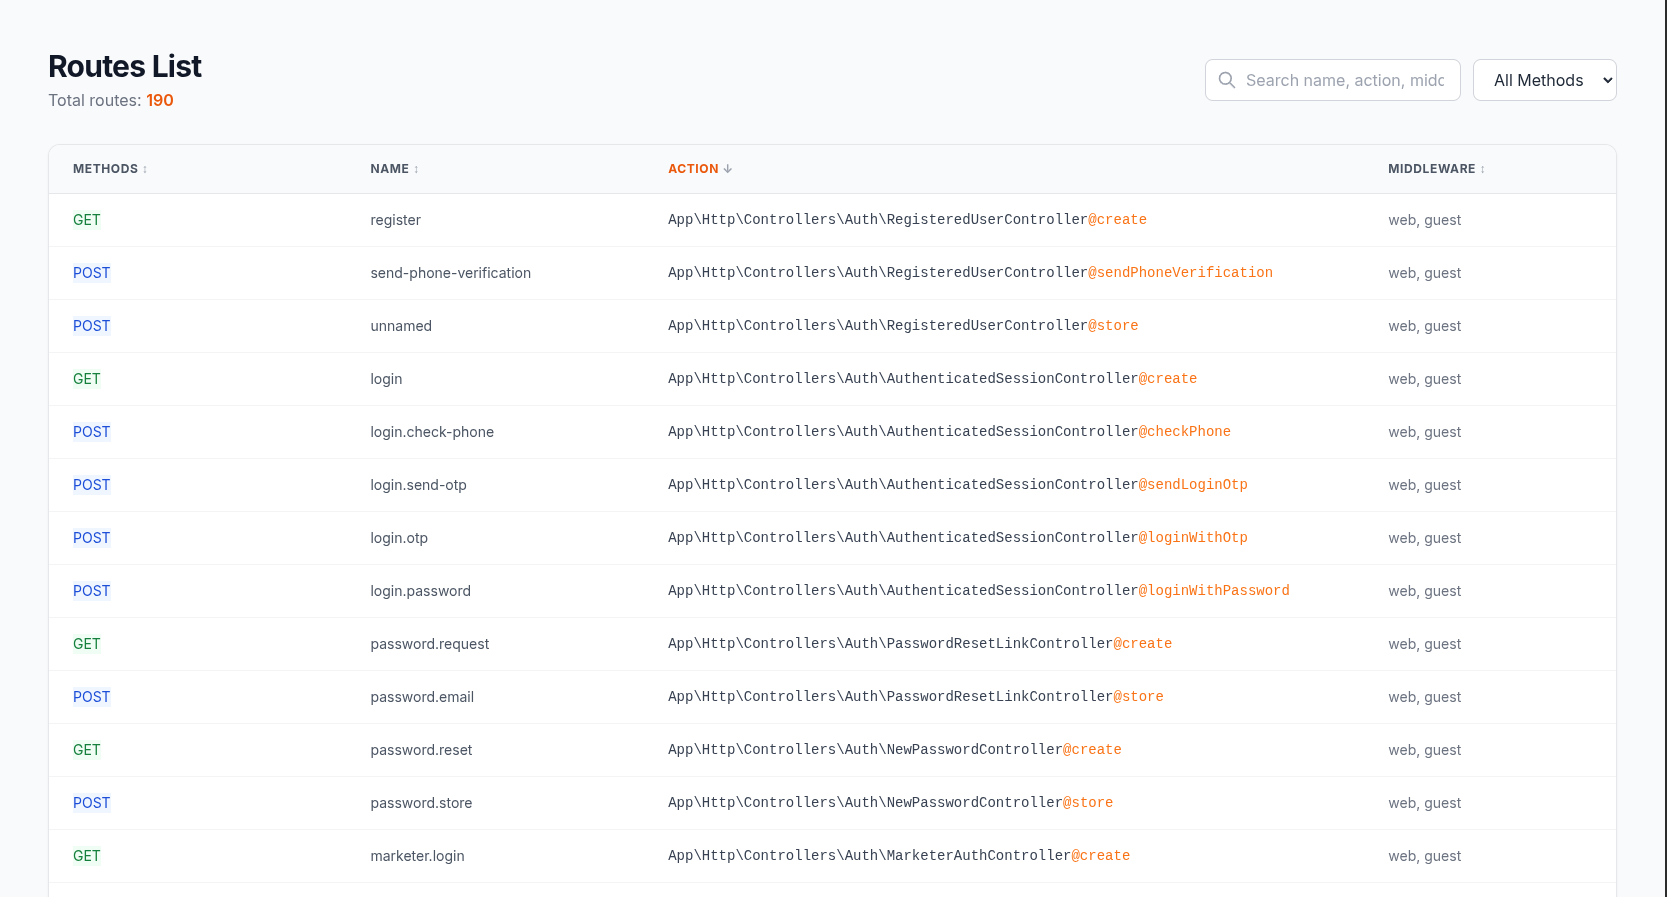
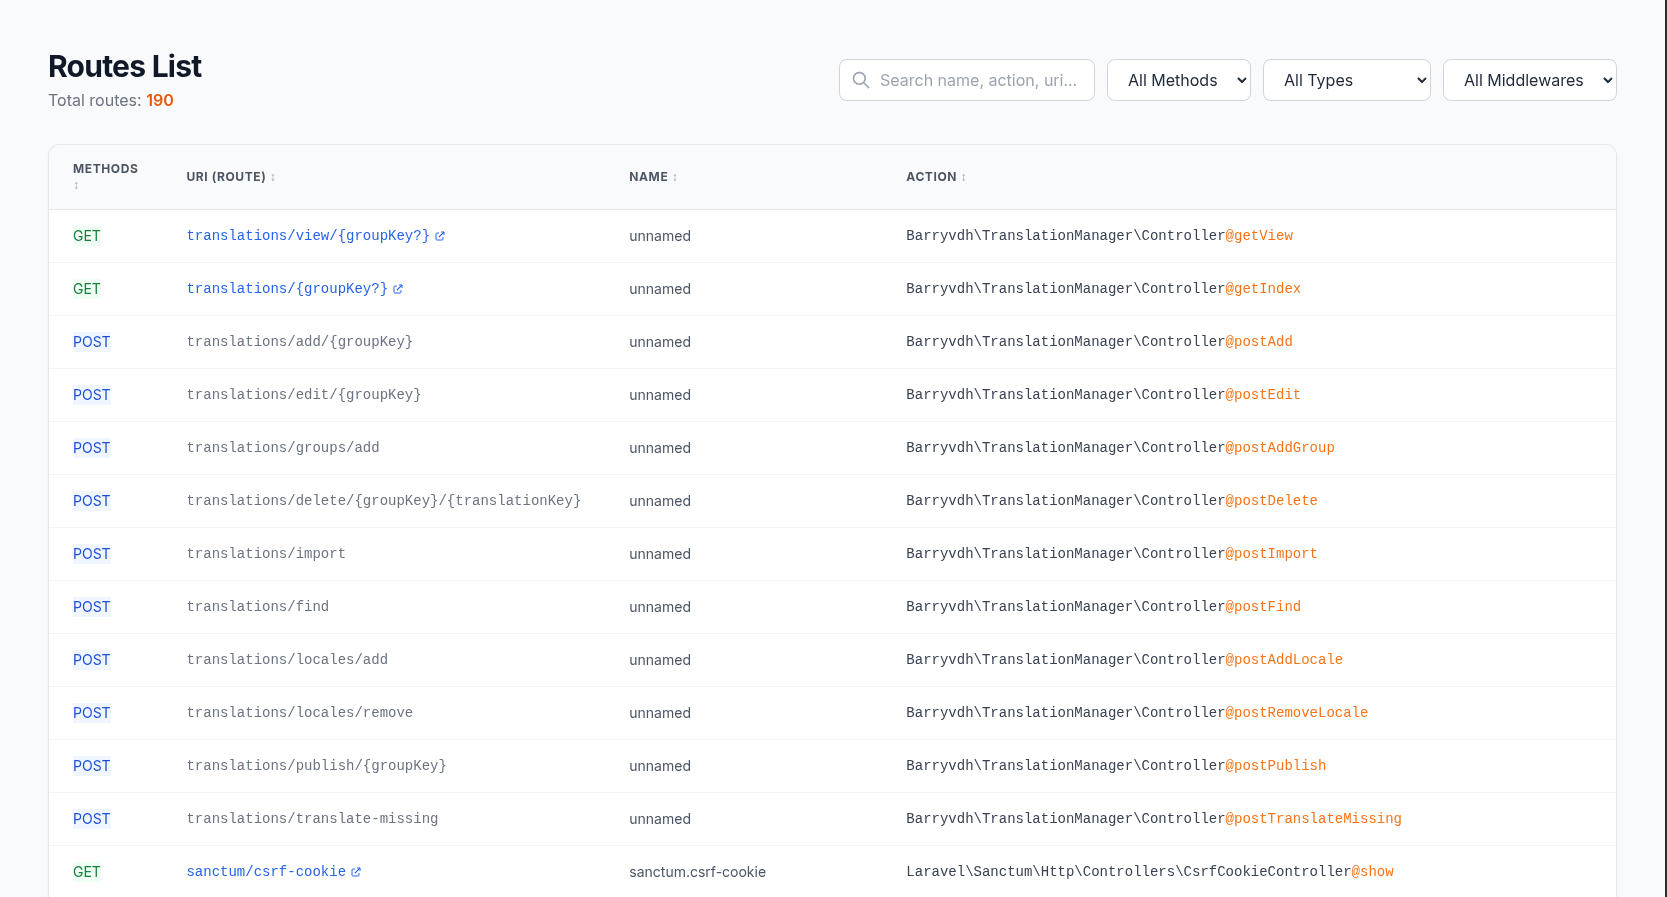
Add Closure Filter, Middleware Filter, URI Column, Optimize JS

diff --git a/views/routes.blade.php b/views/routes.blade.php
@@ -26,11 +26,14 @@
             
             <!-- Controls -->
             <div class="flex flex-col sm:flex-row gap-3">
+                <!-- Search -->
                 <div class="relative">
                     <svg class="absolute left-3 top-1/2 -translate-y-1/2 w-5 h-5 text-gray-400" fill="none" stroke="currentColor" viewBox="0 0 24 24"><path stroke-linecap="round" stroke-linejoin="round" stroke-width="2" d="M21 21l-6-6m2-5a7 7 0 11-14 0 7 7 0 0114 0z"></path></svg>
-                    <input type="text" id="searchInput" placeholder="Search name, action, middleware..." 
+                    <input type="text" id="searchInput" placeholder="Search name, action, uri..." 
                         class="pl-10 pr-4 py-2 border border-gray-300 rounded-lg focus:ring-2 focus:ring-orange-500 focus:border-orange-500 outline-none w-full sm:w-64 transition-shadow">
                 </div>
+
+                <!-- Method Filter -->
                 <select id="methodFilter" class="px-4 py-2 border border-gray-300 rounded-lg focus:ring-2 focus:ring-orange-500 focus:border-orange-500 outline-none bg-white cursor-pointer">
                     <option value="ALL">All Methods</option>
                     <option value="GET">GET</option>
@@ -38,8 +41,41 @@
                     <option value="PUT">PUT</option>
                     <option value="PATCH">PATCH</option>
                     <option value="DELETE">DELETE</option>
-                    <option value="HEAD">HEAD</option>
-                    <option value="OPTIONS">OPTIONS</option>
+                </select>
+
+                <!-- Type Filter (Closure vs Controller) -->
+                <select id="typeFilter" class="px-4 py-2 border border-gray-300 rounded-lg focus:ring-2 focus:ring-orange-500 focus:border-orange-500 outline-none bg-white cursor-pointer">
+                    <option value="ALL">All Types</option>
+                    <option value="CLOSURE">Closure Only</option>
+                    <option value="CONTROLLER">Controller Only</option>
+                </select>
+
+                <!-- Middleware Filter -->
+                <select id="middlewareFilter" class="px-4 py-2 border border-gray-300 rounded-lg focus:ring-2 focus:ring-orange-500 focus:border-orange-500 outline-none bg-white cursor-pointer max-w-[200px]">
+                    <option value="ALL">All Middlewares</option>
+                    @php
+                        // Extract all unique middlewares dynamically
+                        $allMiddlewares = [];
+                        foreach ($routes as $route) {
+                            $middlewares = is_callable([$route, 'controllerMiddleware']) 
+                                ? array_merge($route->middleware(), $route->controllerMiddleware()) 
+                                : $route->middleware();
+                            
+                            foreach ($middlewares as $mw) {
+                                if (is_string($mw)) {
+                                    $parts = explode(',', $mw); // Handle grouped middlewares like 'auth,web'
+                                    foreach ($parts as $part) {
+                                        $allMiddlewares[] = trim($part);
+                                    }
+                                }
+                            }
+                        }
+                        $allMiddlewares = array_unique(array_filter($allMiddlewares));
+                        sort($allMiddlewares);
+                    @endphp
+                    @foreach($allMiddlewares as $mw)
+                        <option value="{{ $mw }}">{{ $mw }}</option>
+                    @endforeach
                 </select>
             </div>
         </div>
@@ -51,6 +87,7 @@
                     <thead class="bg-gray-50 text-gray-600 font-semibold uppercase text-xs tracking-wider border-b border-gray-200">
                         <tr>
                             <th class="px-6 py-4 sortable" data-col="0">Methods <span class="sort-icon text-gray-400">↕</span></th>
+                            <th class="px-6 py-4 sortable" data-col="1">URI (Route) <span class="sort-icon text-gray-400">↕</span></th>
                             <th class="px-6 py-4 sortable" data-col="2">Name <span class="sort-icon text-gray-400">↕</span></th>
                             <th class="px-6 py-4 sortable" data-col="3">Action <span class="sort-icon text-gray-400">↕</span></th>
                             <th class="px-6 py-4 sortable" data-col="4">Middleware <span class="sort-icon text-gray-400">↕</span></th>
@@ -70,28 +107,62 @@
                         @endphp
 
                         @foreach ($routes as $route)
-                            <tr class="hover:bg-gray-50 transition-colors duration-150 group">
+                            @php
+                                $routeMiddlewares = is_callable([$route, 'controllerMiddleware']) 
+                                    ? array_merge($route->middleware(), $route->controllerMiddleware()) 
+                                    : $route->middleware();
+                                
+                                // Create a clean string of middlewares for JS data attribute
+                                $middlewareString = implode(',', array_filter($routeMiddlewares, 'is_string'));
+                                
+                                // Check if action is a closure
+                                $isClosure = str_contains($route->getActionName(), 'Closure');
+                                
+                                // Check if it has GET or HEAD method for safe linking
+                                $methods = array_diff($route->methods(), config('cute-routes.hide_methods', []));
+                                $isSafeToLink = in_array('GET', $methods) || in_array('HEAD', $methods);
+                            @endphp
+
+                            <tr class="hover:bg-gray-50 transition-colors duration-150 group" 
+                                data-is-closure="{{ $isClosure ? 'true' : 'false' }}" 
+                                data-middlewares="{{ $middlewareString }}">
+                                
+                                <!-- Methods -->
                                 <td class="px-6 py-4 whitespace-nowrap">
                                     <div class="flex flex-wrap gap-1.5">
-                                        @foreach (array_diff($route->methods(), config('cute-routes.hide_methods', [])) as $method)
+                                        @foreach ($methods as $method)
                                             <span class="method-badge {{ $methodClasses[$method] ?? 'bg-gray-100 text-gray-600' }}">
                                                 {{ $method }}
                                             </span>
                                         @endforeach
                                     </div>
                                 </td>
+
+                                <!-- URI (Route) -->
+                                <td class="px-6 py-4 font-mono text-sm">
+                                    @if($isSafeToLink)
+                                        <a href="{{ url($route->uri()) }}" target="_blank" class="text-blue-600 hover:text-blue-800 hover:underline flex items-center gap-1" title="Open in new tab (GET/HEAD only)">
+                                            {{ $route->uri() }}
+                                            <svg class="w-3 h-3" fill="none" stroke="currentColor" viewBox="0 0 24 24"><path stroke-linecap="round" stroke-linejoin="round" stroke-width="2" d="M10 6H6a2 2 0 00-2 2v10a2 2 0 002 2h10a2 2 0 002-2v-4M14 4h6m0 0v6m0-6L10 14"></path></svg>
+                                        </a>
+                                    @else
+                                        <span class="text-gray-500" title="Non-GET routes cannot be opened directly in browser">{{ $route->uri() }}</span>
+                                    @endif
+                                </td>
+
+                                <!-- Name -->
                                 <td class="px-6 py-4 text-gray-600">
                                     {{ $route->getName() ?: 'unnamed' }}
                                 </td>
+
+                                <!-- Action -->
                                 <td class="px-6 py-4 font-mono text-gray-700">
                                     {!! preg_replace('#(@.*)$#', '<span class="action-highlight">$1</span>', $route->getActionName()) !!}
                                 </td>
-                                <td class="px-6 py-4 text-gray-500 max-w-xs truncate" title="{{ is_callable([$route, 'controllerMiddleware']) ? implode(', ', array_map($middlewareClosure, array_merge($route->middleware(), $route->controllerMiddleware()))) : implode(', ', $route->middleware()) }}">
-                                    @if (is_callable([$route, 'controllerMiddleware']))
-                                        {{ implode(', ', array_map($middlewareClosure, array_merge($route->middleware(), $route->controllerMiddleware()))) }}
-                                    @else
-                                        {{ implode(', ', $route->middleware()) }}
-                                    @endif
+
+                                <!-- Middleware -->
+                                <td class="px-6 py-4 text-gray-500 max-w-xs truncate" title="{{ $middlewareString }}">
+                                    {{ str_replace(',', ', ', $middlewareString) ?: 'none' }}
                                 </td>
                             </tr>
                         @endforeach
@@ -99,7 +170,7 @@
                 </table>
             </div>
             
-            <!-- Empty State (Hidden by default) -->
+            <!-- Empty State -->
             <div id="emptyState" class="hidden p-12 text-center text-gray-500">
                 <svg class="w-12 h-12 mx-auto text-gray-300 mb-3" fill="none" stroke="currentColor" viewBox="0 0 24 24"><path stroke-linecap="round" stroke-linejoin="round" stroke-width="2" d="M9.172 16.172a4 4 0 015.656 0M9 10h.01M15 10h.01M21 12a9 9 0 11-18 0 9 9 0 0118 0z"></path></svg>
                 <p class="text-lg font-medium">No routes found matching your criteria.</p>
@@ -111,6 +182,8 @@
         document.addEventListener('DOMContentLoaded', () => {
             const searchInput = document.getElementById('searchInput');
             const methodFilter = document.getElementById('methodFilter');
+            const typeFilter = document.getElementById('typeFilter');
+            const middlewareFilter = document.getElementById('middlewareFilter');
             const tableBody = document.querySelector('#routesTable tbody');
             const emptyState = document.getElementById('emptyState');
             let rows = Array.from(tableBody.querySelectorAll('tr'));
@@ -118,27 +191,32 @@
             let sortCol = -1;
             let sortAsc = true;
 
-            // Auto-hide domain column if all are empty
-            const domains = tableBody.querySelectorAll('.domain');
-            const emptyDomains = tableBody.querySelectorAll('.domain-empty');
-            if (domains.length > 0 && domains.length === emptyDomains.length) {
-                document.querySelectorAll('.domain-col').forEach(el => el.style.display = 'none');
-            }
-
-            // Filter Logic
             function applyFilters() {
                 const search = searchInput.value.toLowerCase();
                 const method = methodFilter.value;
+                const type = typeFilter.value;
+                const middleware = middlewareFilter.value;
                 let visibleCount = 0;
 
                 rows.forEach(row => {
                     const textContent = row.textContent.toLowerCase();
                     const methodBadges = Array.from(row.querySelectorAll('.method-badge')).map(b => b.textContent.trim());
-                    
+                    const isClosure = row.dataset.isClosure === 'true';
+                    const rowMiddlewares = row.dataset.middlewares ? row.dataset.middlewares.split(',') : [];
+
                     const matchesSearch = textContent.includes(search);
                     const matchesMethod = method === 'ALL' || methodBadges.includes(method);
                     
-                    if (matchesSearch && matchesMethod) {
+                    let matchesType = true;
+                    if (type === 'CLOSURE') matchesType = isClosure;
+                    if (type === 'CONTROLLER') matchesType = !isClosure;
+
+                    let matchesMiddleware = true;
+                    if (middleware !== 'ALL') {
+                        matchesMiddleware = rowMiddlewares.includes(middleware);
+                    }
+
+                    if (matchesSearch && matchesMethod && matchesType && matchesMiddleware) {
                         row.style.display = '';
                         visibleCount++;
                     } else {
@@ -147,10 +225,9 @@
                 });
 
                 emptyState.classList.toggle('hidden', visibleCount > 0);
-                applySort();
+                applySort(); // Re-apply sort on visible rows
             }
 
-            // Sort Logic
             function applySort() {
                 if (sortCol === -1) return;
 
@@ -195,6 +272,8 @@
             // Event Listeners
             searchInput.addEventListener('input', applyFilters);
             methodFilter.addEventListener('change', applyFilters);
+            typeFilter.addEventListener('change', applyFilters);
+            middlewareFilter.addEventListener('change', applyFilters);
 
             document.querySelectorAll('th.sortable').forEach(th => {
                 th.addEventListener('click', () => handleSort(parseInt(th.dataset.col)));
